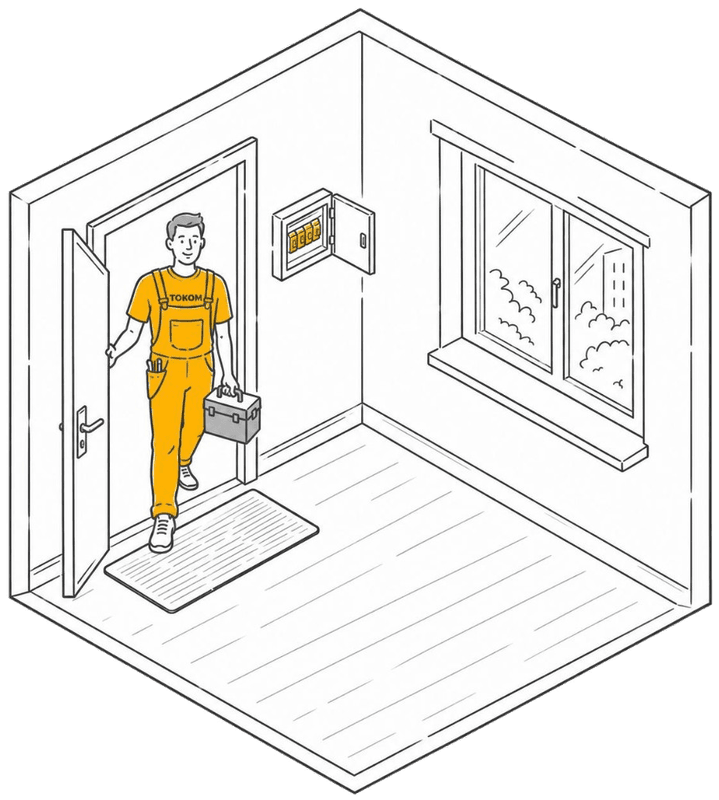
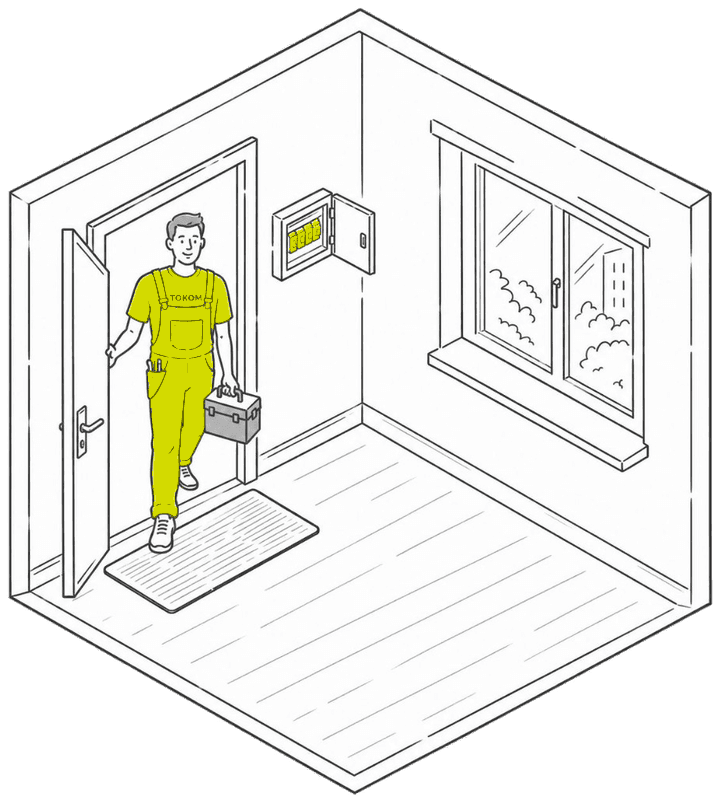
Match empty-state art to brand yellow and fit no-panel flows on one screen.
Recolor illustration accents to #D3DA00, keep both home empty images at the same height, and lock the no-panel pages to the viewport with the black/mustard palette.

Changed region(s): [[0.1836, 0.3125, 0.3366, 0.6562], [0.3978, 0.2812, 0.459, 0.3125]]

diff --git a/src/components/screens/panel-advantages-screen.tsx b/src/components/screens/panel-advantages-screen.tsx
@@ -18,17 +18,17 @@ const inletStages = [
   {
     icon: MessageCircle,
     title: "1. Консультирование",
-    text: "Разберём вашу задачу и подскажем, как сделать электрику грамотно с нуля.",
+    text: "Разберём задачу и подскажем, как сделать электрику грамотно с нуля.",
   },
   {
     icon: ClipboardList,
     title: "2. Проектирование схемы",
-    text: "Спроектируем схему электрики в квартире или доме под ваши помещения и нагрузки.",
+    text: "Спроектируем схему под ваши помещения и нагрузки.",
   },
   {
     icon: Hammer,
     title: "3. Монтажные работы",
-    text: "Выполним монтаж: трассы, щиток, защита и проверка — чтобы всё было безопасно и по делу.",
+    text: "Трассы, щиток, защита и проверка — безопасно и по делу.",
   },
 ];
 
@@ -48,9 +48,9 @@ export function PanelAdvantagesScreen({
       initial={{ opacity: 0, x: 40 }}
       animate={{ opacity: 1, x: 0 }}
       exit={{ opacity: 0, x: -40 }}
-      className="flex min-h-dvh flex-col px-5 pb-8 pt-[max(1.25rem,env(safe-area-inset-top))]"
+      className="flex h-full min-h-0 flex-1 flex-col overflow-hidden px-5 pt-[max(0.75rem,env(safe-area-inset-top))] pb-[max(0.75rem,env(safe-area-inset-bottom))]"
     >
-      <header className="mb-6 flex items-center gap-3">
+      <header className="mb-3 flex shrink-0 items-center gap-3">
         <button
           type="button"
           onClick={onBack}
@@ -59,74 +59,71 @@ export function PanelAdvantagesScreen({
         >
           <ArrowLeft className="h-5 w-5" />
         </button>
-        <h1 className="text-[20px] font-semibold text-zinc-900">
+        <h1 className="text-[18px] font-semibold text-zinc-900 sm:text-[20px]">
           Сделать правильно
         </h1>
       </header>
 
-      <div className="mb-5 flex items-center gap-3">
-        <div className="flex h-14 w-14 items-center justify-center rounded-[18px] border border-black/8 bg-zinc-100 text-zinc-600">
-          <BreakerIcon className="h-8 w-8" />
+      <div className="mb-3 flex shrink-0 items-center gap-3">
+        <div className="flex h-12 w-12 items-center justify-center rounded-[16px] bg-[#D3DA00] text-[#111113]">
+          <BreakerIcon className="h-7 w-7" />
         </div>
-        <div>
-          <h2 className="text-[20px] font-bold leading-snug text-zinc-900">
-            {isInletCable
-              ? "С нуля можно сделать электрику правильно"
-              : "Правильнее всего — собрать грамотный щиток"}
-          </h2>
-        </div>
+        <h2 className="text-[17px] font-bold leading-snug text-zinc-900 sm:text-[19px]">
+          {isInletCable
+            ? "С нуля можно сделать электрику правильно"
+            : "Правильнее всего — собрать грамотный щиток"}
+        </h2>
       </div>
 
-      <GlassCard className="mb-4 p-4">
-        <div className="mb-2 flex items-center gap-2 text-emerald-600">
+      <GlassCard className="mb-3 shrink-0 p-3">
+        <div className="mb-1.5 flex items-center gap-2 text-[#111113]">
           <ShieldCheck className="h-4 w-4 shrink-0" />
           <span className="text-[13px] font-semibold">Цель</span>
         </div>
-        <p className="text-[14px] leading-relaxed text-zinc-600">
+        <p className="text-[13px] leading-snug text-zinc-600 sm:text-[14px]">
           {isInletCable
-            ? "Пока есть только вводной кабель, можно сразу заложить современную схему: трассы, щиток, защиту и запас под будущую технику — без переделок после ремонта."
-            : "Современный электрощиток с вводным автоматом, УЗО/дифавтоматами и раздельными линиями — самый надёжный способ сделать электрику безопасной, понятной и готовой к нагрузкам."}
+            ? "Пока есть только вводной кабель, можно сразу заложить современную схему: трассы, щиток, защиту и запас под технику — без переделок после ремонта."
+            : "Современный щиток с вводным автоматом, УЗО/дифавтоматами и раздельными линиями — надёжный способ сделать электрику безопасной и готовой к нагрузкам."}
         </p>
       </GlassCard>
 
       {isInletCable ? (
-        <div className="mb-6 flex-1 space-y-3 overflow-y-auto pb-2">
-          <h3 className="text-[15px] font-semibold text-zinc-700">
+        <div className="flex min-h-0 flex-1 flex-col gap-2">
+          <h3 className="shrink-0 text-[13px] font-semibold text-zinc-700">
             Этапы работ
           </h3>
           {inletStages.map((stage) => (
-            <GlassCard key={stage.title} className="p-4">
-              <div className="mb-2 flex items-center gap-3">
-                <span className="flex h-9 w-9 shrink-0 items-center justify-center rounded-full bg-zinc-100 text-zinc-600">
+            <GlassCard key={stage.title} className="flex min-h-0 flex-1 flex-col p-3">
+              <div className="mb-1 flex items-center gap-2.5">
+                <span className="flex h-8 w-8 shrink-0 items-center justify-center rounded-full bg-[#D3DA00] text-[#111113]">
                   <stage.icon className="h-4 w-4" />
                 </span>
-                <h4 className="text-[15px] font-semibold text-zinc-900">
+                <h4 className="text-[14px] font-semibold text-zinc-900">
                   {stage.title}
                 </h4>
               </div>
-              <p className="text-[14px] leading-relaxed text-zinc-500">
+              <p className="text-[12px] leading-snug text-zinc-500 sm:text-[13px]">
                 {stage.text}
               </p>
             </GlassCard>
           ))}
         </div>
       ) : (
-        <GlassCard className="mb-6 border-amber-200 bg-amber-50 p-4">
-          <div className="mb-2 flex items-center gap-2 text-amber-700">
+        <GlassCard className="mb-3 min-h-0 flex-1 p-3">
+          <div className="mb-1.5 flex items-center gap-2 text-[#111113]">
             <AlertTriangle className="h-4 w-4 shrink-0" />
             <span className="text-[13px] font-semibold">Важный нюанс</span>
           </div>
-          <p className="text-[14px] leading-relaxed text-amber-900/80">
-            Если в квартире или доме уже собрана электрика в старом исполнении,
-            сборка щитка будет ограничена существующей схемой и проводкой. Мы
-            сделаем максимум в этих условиях — и подскажем, что можно улучшить
-            сейчас, а что лучше заложить при ремонте.
+          <p className="text-[13px] leading-snug text-zinc-600 sm:text-[14px]">
+            Если электрика уже собрана в старом исполнении, щиток будет ограничен
+            существующей схемой и проводкой. Сделаем максимум в этих условиях и
+            подскажем, что улучшить сейчас, а что заложить при ремонте.
           </p>
         </GlassCard>
       )}
 
-      <div className="mt-auto pt-2">
-        <Button className="w-full" size="lg" onClick={onInstall}>
+      <div className="mt-3 shrink-0">
+        <Button className="w-full" onClick={onInstall}>
           Заказать консультацию
         </Button>
       </div>

diff --git a/src/components/screens/no-panel-options-screen.tsx b/src/components/screens/no-panel-options-screen.tsx
@@ -22,9 +22,9 @@ export function NoPanelOptionsScreen({
       initial={{ opacity: 0, x: 40 }}
       animate={{ opacity: 1, x: 0 }}
       exit={{ opacity: 0, x: -40 }}
-      className="flex min-h-dvh flex-col px-5 pb-8 pt-[max(1.25rem,env(safe-area-inset-top))]"
+      className="flex h-full min-h-0 flex-1 flex-col overflow-hidden px-5 pt-[max(0.75rem,env(safe-area-inset-top))] pb-[max(0.75rem,env(safe-area-inset-bottom))]"
     >
-      <header className="mb-5 flex items-center gap-3">
+      <header className="mb-3 flex shrink-0 items-center gap-3">
         <button
           type="button"
           onClick={onBack}
@@ -36,11 +36,11 @@ export function NoPanelOptionsScreen({
         <h1 className="text-[20px] font-semibold text-zinc-900">Нет щитка</h1>
       </header>
 
-      <h2 className="mb-4 text-[24px] font-bold tracking-tight text-zinc-900">
-        Подскажите, как у вас устроена электрика?
+      <h2 className="mb-3 shrink-0 text-[20px] font-bold tracking-tight text-zinc-900 sm:text-[22px]">
+        Как у вас устроена электрика?
       </h2>
 
-      <div className="grid min-h-0 flex-1 grid-cols-2 gap-3">
+      <div className="grid min-h-0 flex-1 grid-cols-2 grid-rows-2 gap-2.5">
         {noPanelSetups.map((setup, i) => {
           const variant = NO_PANEL_CARD_VARIANTS[setup.id];
           const style = brandChoiceClasses[variant];
@@ -55,25 +55,30 @@ export function NoPanelOptionsScreen({
               transition={{ delay: 0.05 * i }}
               onClick={() => onSelect(setup.id)}
               className={cn(
-                "flex min-h-[210px] flex-col overflow-hidden rounded-[28px] border p-3 text-left shadow-[0_8px_24px_rgba(17,17,19,0.06)] transition-transform active:scale-[0.98]",
+                "flex min-h-0 flex-col overflow-hidden rounded-[24px] border p-3 text-left shadow-[0_8px_24px_rgba(17,17,19,0.06)] transition-transform active:scale-[0.98]",
                 style.card,
               )}
             >
-              <div className="flex min-h-0 flex-1 items-center justify-center py-2">
+              <div className="flex min-h-0 flex-1 items-center justify-center">
                 <span
                   className={cn(
-                    "flex h-16 w-16 items-center justify-center rounded-[20px]",
+                    "flex h-12 w-12 items-center justify-center rounded-[16px] sm:h-14 sm:w-14 sm:rounded-[18px]",
                     style.icon,
                   )}
                 >
-                  <Icon className="h-8 w-8" strokeWidth={1.75} />
+                  <Icon className="h-6 w-6 sm:h-7 sm:w-7" strokeWidth={1.75} />
                 </span>
               </div>
-              <div className="mt-1 px-1 pb-1">
-                <div className="text-[15px] font-bold leading-snug tracking-tight">
+              <div className="mt-1 px-0.5 pb-0.5">
+                <div className="text-[14px] font-bold leading-snug tracking-tight sm:text-[15px]">
                   {NO_PANEL_CARD_TITLES[setup.id]}
                 </div>
-                <p className={cn("mt-1 text-[12px] font-medium leading-snug", style.body)}>
+                <p
+                  className={cn(
+                    "mt-0.5 line-clamp-2 text-[11px] font-medium leading-snug sm:text-[12px]",
+                    style.body,
+                  )}
+                >
                   {setup.subtitle}
                 </p>
               </div>
@@ -82,9 +87,8 @@ export function NoPanelOptionsScreen({
         })}
       </div>
 
-      <p className="mt-5 text-[14px] leading-relaxed text-zinc-500">
-        Выберите вариант, который больше похож на вашу ситуацию. Мы покажем
-        основные риски и что лучше сделать.
+      <p className="mt-3 shrink-0 text-[13px] leading-snug text-zinc-500">
+        Выберите похожий вариант — покажем риски и что лучше сделать.
       </p>
     </motion.section>
   );

diff --git a/src/components/screens/no-panel-detail-screen.tsx b/src/components/screens/no-panel-detail-screen.tsx
@@ -27,9 +27,9 @@ export function NoPanelDetailScreen({
       initial={{ opacity: 0, x: 40 }}
       animate={{ opacity: 1, x: 0 }}
       exit={{ opacity: 0, x: -40 }}
-      className="flex min-h-dvh flex-col px-5 pb-8 pt-[max(1.25rem,env(safe-area-inset-top))]"
+      className="flex h-full min-h-0 flex-1 flex-col overflow-hidden px-5 pt-[max(0.75rem,env(safe-area-inset-top))] pb-[max(0.75rem,env(safe-area-inset-bottom))]"
     >
-      <header className="mb-6 flex items-center gap-3">
+      <header className="mb-3 flex shrink-0 items-center gap-3">
         <button
           type="button"
           onClick={onBack}
@@ -38,49 +38,44 @@ export function NoPanelDetailScreen({
         >
           <ArrowLeft className="h-5 w-5" />
         </button>
-        <h1 className="truncate text-[20px] font-semibold text-zinc-900">
+        <h1 className="truncate text-[18px] font-semibold text-zinc-900 sm:text-[20px]">
           {setup.title}
         </h1>
       </header>
 
       <div
-        className={`mb-5 flex items-start gap-3 rounded-[20px] border p-4 ${
-          isOpportunity
-            ? "border-emerald-400/20 bg-emerald-500/10"
-            : "border-amber-400/20 bg-amber-500/10"
+        className={`mb-3 flex shrink-0 items-start gap-2.5 rounded-[18px] border border-black/8 p-3 ${
+          isOpportunity ? "bg-[#D3DA00]/30" : "bg-zinc-100"
         }`}
       >
         {isOpportunity ? (
-          <Sparkles className="mt-0.5 h-5 w-5 shrink-0 text-emerald-600" />
+          <Sparkles className="mt-0.5 h-4 w-4 shrink-0 text-[#111113]" />
         ) : (
-          <ShieldAlert className="mt-0.5 h-5 w-5 shrink-0 text-amber-600" />
+          <ShieldAlert className="mt-0.5 h-4 w-4 shrink-0 text-[#111113]" />
         )}
-        <p
-          className={`text-[14px] leading-relaxed ${
-            isOpportunity ? "text-emerald-900/80" : "text-amber-900/80"
-          }`}
-        >
-          {setup.banner}
-        </p>
+        <p className="text-[13px] leading-snug text-zinc-800">{setup.banner}</p>
       </div>
 
-      <div className="flex-1 space-y-3 overflow-y-auto pb-4">
+      <div className="flex min-h-0 flex-1 flex-col gap-2">
         {setup.risks.map((risk) => {
           const meta = riskCategoryMeta[risk.category];
           const Icon = meta.icon;
           return (
-            <GlassCard key={risk.title} className="p-4">
-              <div className="mb-2 flex items-center gap-3">
+            <GlassCard
+              key={risk.title}
+              className="flex min-h-0 flex-1 flex-col overflow-hidden p-3"
+            >
+              <div className="mb-1 flex items-center gap-2.5">
                 <span
-                  className={`flex h-9 w-9 shrink-0 items-center justify-center rounded-full ${meta.className}`}
+                  className={`flex h-8 w-8 shrink-0 items-center justify-center rounded-full ${meta.className}`}
                 >
-                  <Icon className="h-4 w-4" />
+                  <Icon className="h-3.5 w-3.5" />
                 </span>
-                <h3 className="text-[15px] font-semibold text-zinc-900">
+                <h3 className="text-[14px] font-semibold text-zinc-900">
                   {risk.title}
                 </h3>
               </div>
-              <p className="text-[14px] leading-relaxed text-zinc-500">
+              <p className="min-h-0 flex-1 overflow-hidden text-[12px] leading-snug text-zinc-500 sm:text-[13px]">
                 {risk.text}
               </p>
             </GlassCard>
@@ -88,8 +83,8 @@ export function NoPanelDetailScreen({
         })}
       </div>
 
-      <div className="mt-auto pt-2">
-        <Button className="w-full" size="lg" onClick={onContinue}>
+      <div className="mt-3 shrink-0">
+        <Button className="w-full" onClick={onContinue}>
           Сделать правильно
         </Button>
       </div>

diff --git a/src/lib/no-panel-setups.ts b/src/lib/no-panel-setups.ts
@@ -54,33 +54,33 @@ export const riskCategoryMeta: Record<
   RiskCategory,
   { icon: LucideIcon; className: string }
 > = {
-  person: { icon: User, className: "text-rose-600 bg-rose-500/15" },
+  person: { icon: User, className: "text-[#111113] bg-[#D3DA00]" },
   fire: {
     icon: FireExtinguisher,
-    className: "text-orange-600 bg-orange-500/15",
+    className: "text-[#111113] bg-[#D3DA00]",
   },
-  load: { icon: Gauge, className: "text-violet-600 bg-violet-500/15" },
-  ops: { icon: Wrench, className: "text-zinc-600 bg-zinc-500/15" },
-  norms: { icon: Scale, className: "text-amber-600 bg-amber-500/15" },
+  load: { icon: Gauge, className: "text-[#111113] bg-zinc-100" },
+  ops: { icon: Wrench, className: "text-[#111113] bg-zinc-100" },
+  norms: { icon: Scale, className: "text-[#111113] bg-zinc-100" },
   control: {
     icon: ClipboardList,
-    className: "text-cyan-600 bg-cyan-500/15",
+    className: "text-[#111113] bg-zinc-100",
   },
   reliability: {
     icon: ShieldCheck,
-    className: "text-teal-600 bg-teal-500/15",
+    className: "text-[#111113] bg-zinc-100",
   },
   durability: {
     icon: Lightbulb,
-    className: "text-amber-600 bg-amber-500/15",
+    className: "text-[#111113] bg-zinc-100",
   },
   action: {
     icon: LayoutGrid,
-    className: "text-zinc-600 bg-zinc-100",
+    className: "text-white bg-[#111113]",
   },
   opportunity: {
     icon: Sparkles,
-    className: "text-emerald-600 bg-emerald-500/15",
+    className: "text-[#111113] bg-[#D3DA00]",
   },
 };
 

diff --git a/src/components/screens/objects-screen.tsx b/src/components/screens/objects-screen.tsx
@@ -470,10 +470,10 @@ function EmptyState({
               src={imageSrc}
               alt={imageAlt ?? ""}
               draggable={false}
-              className="pointer-events-none mb-4 w-full max-w-[280px] select-none"
+              className="pointer-events-none h-[min(36dvh,240px)] w-auto max-w-full select-none object-contain"
             />
           ) : null}
-          <p className="text-center text-[15px] leading-relaxed text-zinc-600">
+          <p className="mt-4 min-h-[6.25rem] text-center text-[15px] leading-relaxed text-zinc-600">
             {text}
           </p>
         </div>

diff --git a/src/components/app-shell.tsx b/src/components/app-shell.tsx
@@ -1819,7 +1819,10 @@ export function AppShell({ forceResearchSurvey = false }: { forceResearchSurvey?
     screen === "master-not-found" ||
     screen === "admin" ||
     screen === "research-survey" ||
-    screen === "panel-game";
+    screen === "panel-game" ||
+    screen === "no-panel-options" ||
+    screen === "no-panel-detail" ||
+    screen === "panel-advantages";
   const wideLayout =
     screen === "objects" ||
     screen === "scheme" ||
